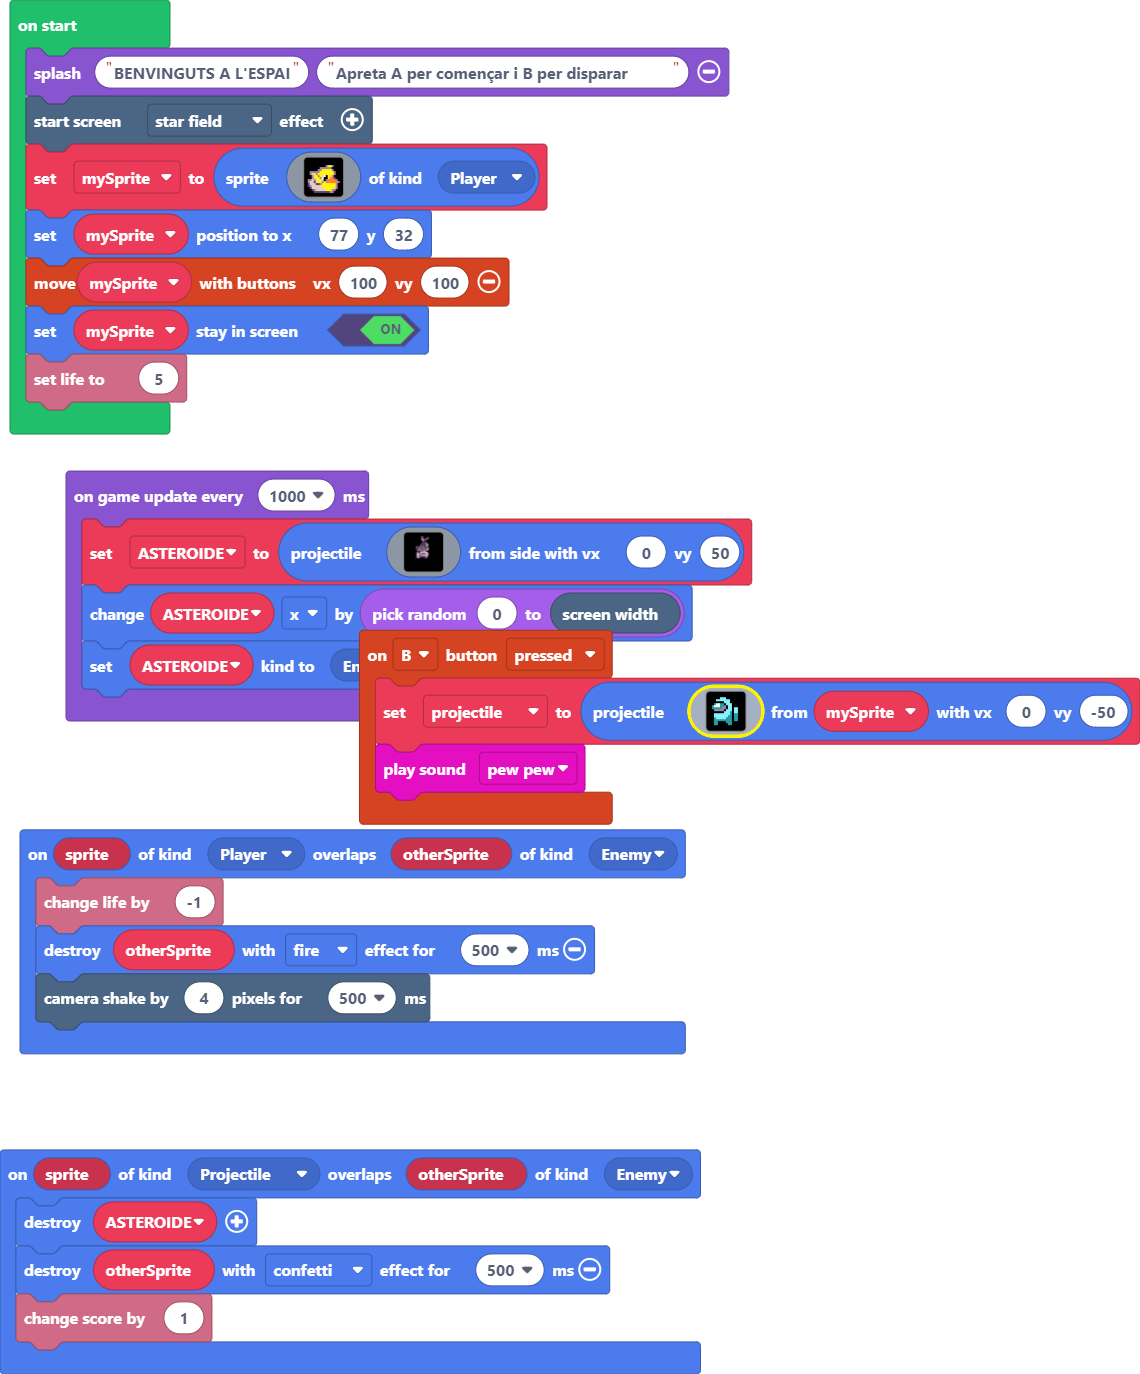
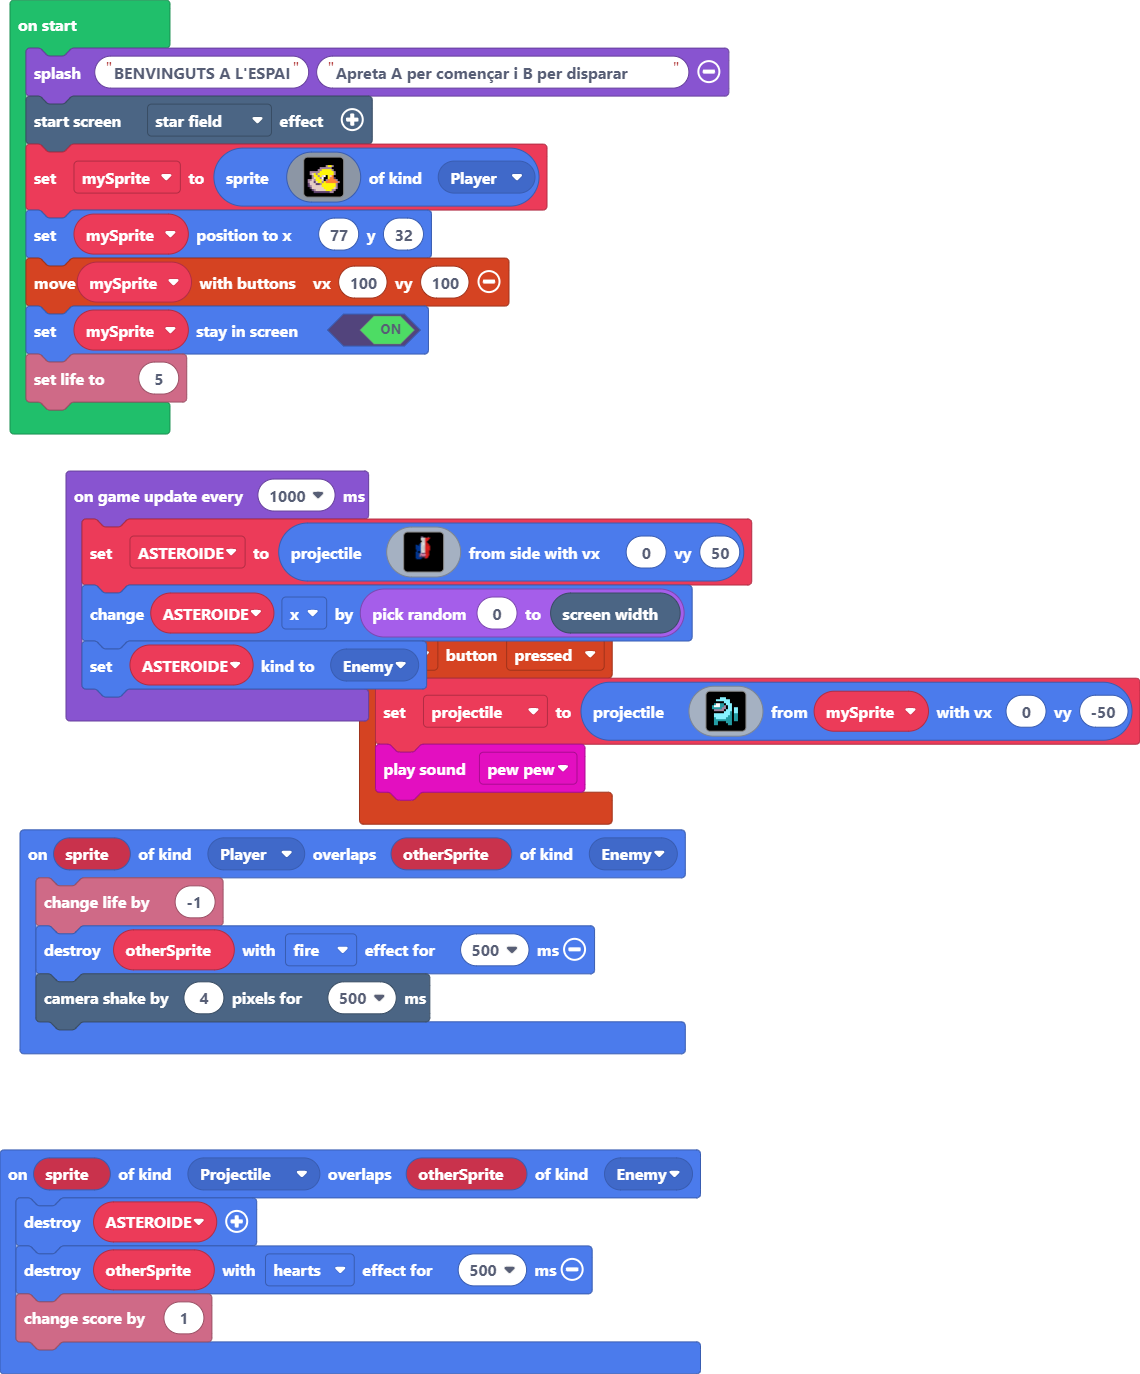
Update pxt.json, main.blocks, main.ts, images.g.jres, images.g.ts

diff --git a/images.g.ts b/images.g.ts
@@ -7,30 +7,30 @@ namespace myImages {
             case "ASTEROIDE":return img`
 ......cc......ff
 ......cbc...ffbf
-......cbccffcbbf
-......cdbcccbbf.
-......cddbccbf..
-.......cdbbff...
-.......fccfc....
-......fccccbc...
-.....fcccccbdc..
-....fcccccccddc.
-ff..fcccccccddc.
-fbffccbbbcccddff
-fbbfbbccbbccdfbf
-cbfbbcbbbbbcfbbf
-cbfbbbccbbbbbbdf
-.cbbbcbbbbbbbdbf
-.fbbbbbbbbbbbbf.
-.fbffbbbb11ccff.
-fbbff111111111f.
-fbb11c3cccc111c.
-fb11c133331c11c.
-fb11cc33333311c.
-fb11c1c333311c..
-fbb1cccccccc1c..
-fbbb1ff...ccc...
-.fffff..........
+......1111122222
+......111112222.
+......11111222..
+.......111122...
+.......11112....
+......1111122...
+.....811111222..
+....88111112222.
+88..88111112222.
+8888881111122222
+8888881111122222
+8888881111122222
+8888881111122222
+.888881111122222
+.88888111112222.
+.88ff8111112222.
+888ff8111112222.
+8888883cccc2222.
+8888c1333312222.
+8888cc333333222.
+8888c1c3333222..
+8888ccccccc222..
+8888888...c22...
+.88888..........
 ................
 ................
 ................

diff --git a/main.ts b/main.ts
@@ -21,7 +21,7 @@ controller.B.onEvent(ControllerButtonEvent.Pressed, function () {
 })
 sprites.onOverlap(SpriteKind.Projectile, SpriteKind.Enemy, function (sprite, otherSprite) {
     ASTEROIDE.destroy()
-    otherSprite.destroy(effects.confetti, 500)
+    otherSprite.destroy(effects.hearts, 500)
     info.changeScoreBy(1)
 })
 sprites.onOverlap(SpriteKind.Player, SpriteKind.Enemy, function (sprite, otherSprite) {
